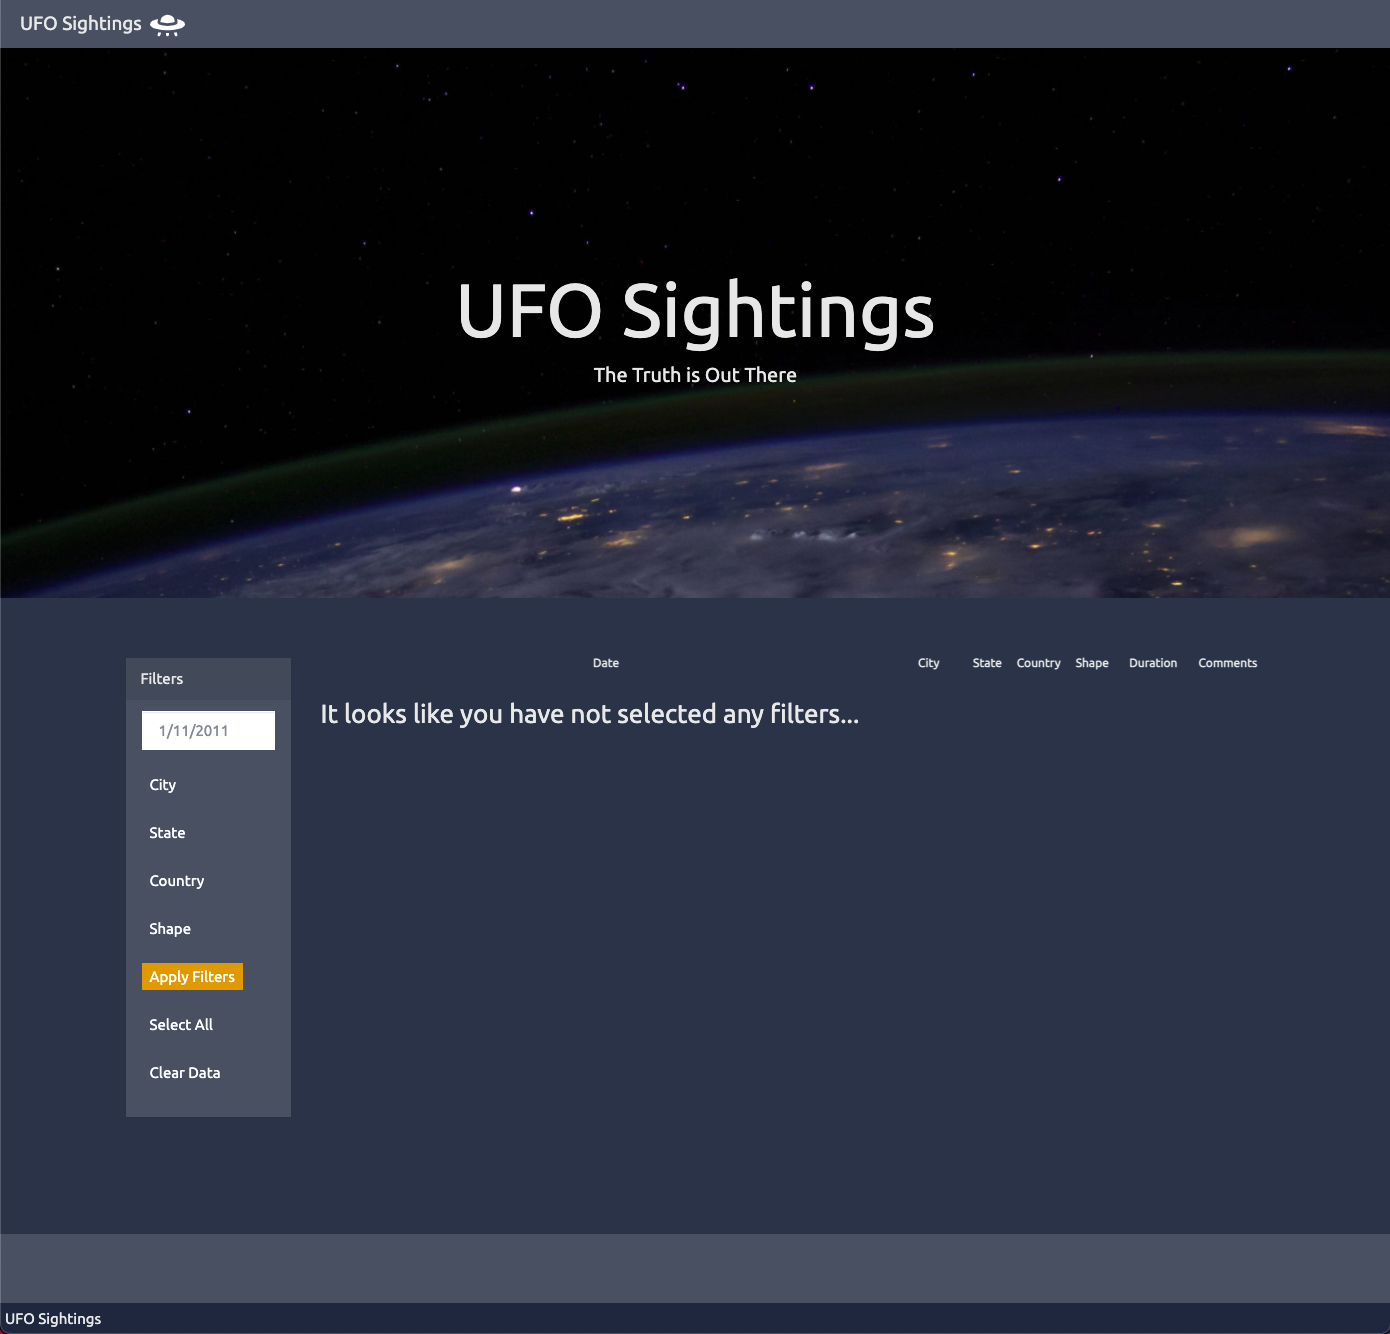
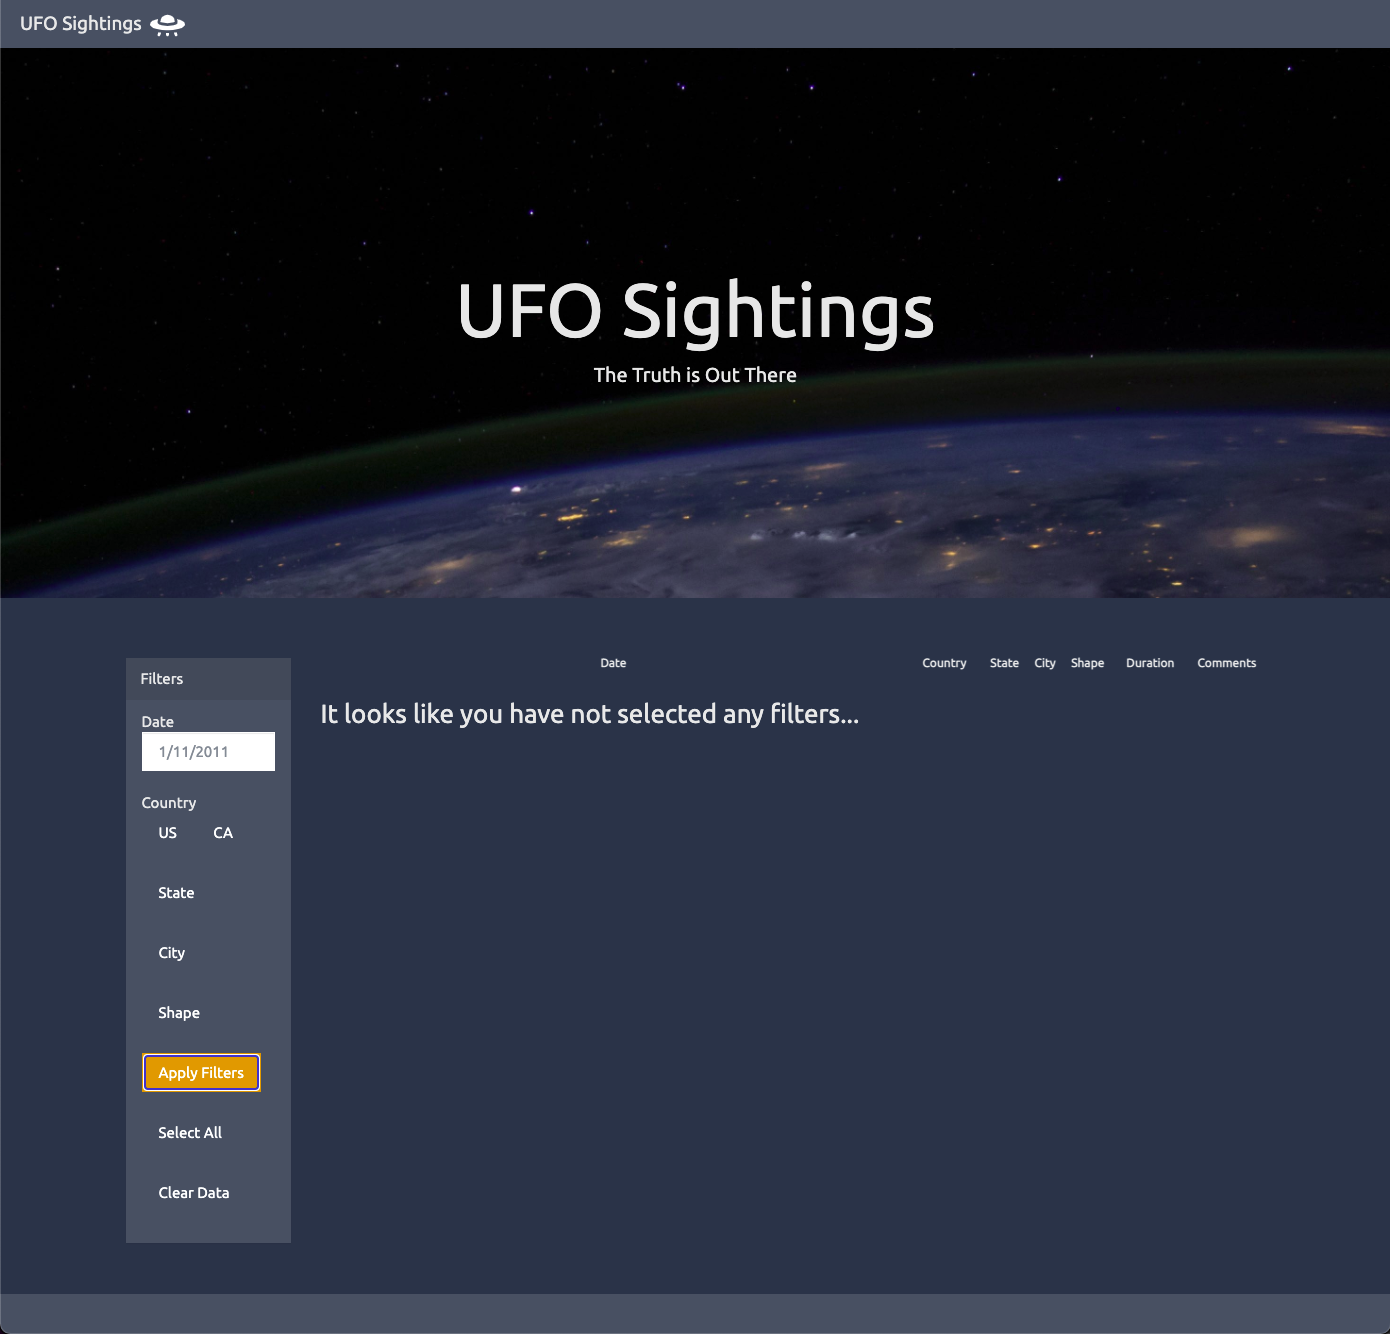
Adding a new button and some formatting. Also updated images.

diff --git a/UFO-level-1/static/js/app.js b/UFO-level-1/static/js/app.js
@@ -8,8 +8,10 @@ var allButton = d3.select("#all-btn");
 var clearButton = d3.select("#clear-btn");
 var cityDropdown = d3.select("#city-dropdown");
 var stateDropdown = d3.select("#state-dropdown");
-var countryDropdown = d3.select("#country-dropdown");
 var shapeDropdown = d3.select("#shape-dropdown");
+var usButton = d3.select("#us-btn");
+var caButton = d3.select("#ca-btn");
+var countrySelected = "";
 
 // Adding dropdown lists
 var cities = tableData.map(ufo => ufo.city);
@@ -24,12 +26,6 @@ uniqueStates.forEach(stateName => {
     stateDropdown.append("li").append("a").attr("id", "state-dropdown-item").text(stateName);
 });
 
-var countries = tableData.map(ufo => ufo.country);
-var uniqueCountries = countries.filter(uniqueFilter).sort();
-uniqueCountries.forEach(countryName => {
-    countryDropdown.append("li").append("a").attr("id", "country-dropdown-item").text(countryName);
-});
-
 var shapes = tableData.map(ufo => ufo.shape);
 var uniqueShapes = shapes.filter(uniqueFilter).sort();
 uniqueShapes.forEach(shapeName => {
@@ -39,7 +35,6 @@ uniqueShapes.forEach(shapeName => {
 // Selecting all
 var cityDropdownItem = d3.selectAll("#city-dropdown-item");
 var stateDropdownItem = d3.selectAll("#state-dropdown-item");
-var countryDropdownItem = d3.selectAll("#country-dropdown-item");
 var shapeDropdownItem = d3.selectAll("#shape-dropdown-item");
 
 // Event handlers
@@ -47,10 +42,11 @@ dateInput.on("submit", runFilter);
 filterButton.on("click", runFilter);
 allButton.on("click", runAll);
 clearButton.on("click", runClear);
-cityDropdownItem.on("click", runCities)
-stateDropdownItem.on("click", runStates)
-countryDropdownItem.on("click", runCountries)
-shapeDropdownItem.on("click", runShapes)
+cityDropdownItem.on("click", runCities);
+stateDropdownItem.on("click", runStates);
+shapeDropdownItem.on("click", runShapes);
+usButton.on("click", runCountries);
+caButton.on("click", runCountries);
 
 // Adding functions 
 function runFilter() {
@@ -58,7 +54,7 @@ function runFilter() {
     var textInput = d3.select("#datetime").property("value");
     var cityInput = d3.select("#city-button").text();
     var stateInput = d3.select("#state-button").text();
-    var countryInput = d3.select("#country-button").text();
+    var countryInput = countrySelected;
     var shapeInput = d3.select("#shape-button").text();
     var filterItems = {"datetime":textInput, "city":cityInput, "state":stateInput, "country":countryInput, "shape":shapeInput};
     var filteredResults = tableData;
@@ -68,21 +64,22 @@ function runFilter() {
         }
     })
     if ( filteredResults === tableData) {
-        filterButton.attr("class", "btn-warning");
+        filterButton.attr("class", "btn btn-warning");
         var ufoTbody = d3.select("#ufo-tbody");
         ufoTbody.html("");
         ufoTbody.append("h3").text(`It looks like you have not selected any filters...`);    
-        allButton.attr("class", "btn-default");
+        allButton.attr("class", "btn btn-default");
     } else if ( filteredResults.length !== 0 ) {
-        filterButton.attr("class", "btn-success");
+        filterButton.attr("class", "btn btn-success");
         dataPrinter(filteredResults);
+        allButton.attr("class", "btn btn-default");
     } else {
         runError();
     }
 };
 
 function runError() {
-    filterButton.attr("class", "btn-danger");
+    filterButton.attr("class", "btn btn-danger");
     var ufoTbody = d3.select("#ufo-tbody");
     ufoTbody.html("");
     ufoTbody.append("h3").text(`There is no data for the filters selected.`);    
@@ -91,8 +88,7 @@ function runError() {
 function runAll() {
     dataPrinter(tableData);
     clearFilters();
-    allButton.attr("class", "btn-info");
-
+    allButton.attr("class", "btn btn-info");
 };
 
 function runClear() {
@@ -104,29 +100,31 @@ function runClear() {
 function runCities() {
     var inputSelected = d3.select(this);
     var selectedCity = inputSelected.text();
-    d3.select("#city-button").text(selectedCity).style("text-transform", "capitalize").attr("class", "btn-info");
-    allButton.attr("class", "btn-default");
+    d3.select("#city-button").text(selectedCity).style("text-transform", "capitalize").attr("class", "btn btn-info");
+    allButton.attr("class", "btn btn-default");
 };
 
 function runStates() {
     var inputSelected = d3.select(this);
     var selectedState = inputSelected.text();
-    d3.select("#state-button").text(selectedState).style("text-transform", "capitalize").attr("class", "btn-info");
-    allButton.attr("class", "btn-default");
-};
-
-function runCountries() {
-    var inputSelected = d3.select(this);
-    var selectedCountry = inputSelected.text();
-    d3.select("#country-button").text(selectedCountry).style("text-transform", "capitalize").attr("class", "btn-info");
-    allButton.attr("class", "btn-default");
+    d3.select("#state-button").text(selectedState).style("text-transform", "capitalize").attr("class", "btn btn-info");
+    allButton.attr("class", "btn btn-default");
 };
 
 function runShapes() {
     var inputSelected = d3.select(this);
     var selectedShape = inputSelected.text();
-    d3.select("#shape-button").text(selectedShape).style("text-transform", "capitalize").attr("class", "btn-info");
-    allButton.attr("class", "btn-default");
+    d3.select("#shape-button").text(selectedShape).style("text-transform", "capitalize").attr("class", "btn btn-info");
+    allButton.attr("class", "btn btn-default");
+};
+
+function runCountries() {
+    usButton.attr("class", "btn btn-default");
+    caButton.attr("class", "btn btn-default");
+    var inputSelected = d3.select(this);
+    inputSelected.attr("class", "btn btn-info");
+    countrySelected = inputSelected.text().toLowerCase();
+    console.log(countrySelected);
 };
 
 function uniqueFilter(value, index, self) {
@@ -134,14 +132,16 @@ function uniqueFilter(value, index, self) {
 };
 
 function clearFilters() {
-    d3.select("#city-button").text("City").attr("class", "btn-default");
-    d3.select("#state-button").text("State").attr("class", "btn-default");
-    d3.select("#country-button").text("Country").attr("class", "btn-default");
-    d3.select("#shape-button").text("Shape").attr("class", "btn-default");
-    allButton.attr("class", "btn-default");
-    filterButton.attr("class", "btn-default");
-    clearButton.attr("class", "btn-default");
+    d3.select("#city-button").text("City").attr("class", "btn btn-default");
+    d3.select("#state-button").text("State").attr("class", "btn btn-default");
+    d3.select("#shape-button").text("Shape").attr("class", "btn btn-default");
+    allButton.attr("class", "btn btn-default");
+    filterButton.attr("class", "btn btn-default");
+    clearButton.attr("class", "btn btn-default");
     d3.select('#datetime').property("value", "");
+    usButton.attr("class", "btn btn-default");
+    caButton.attr("class", "btn btn-default");
+    countrySelected = "";
 };
 
 function dataPrinter(list) {
@@ -150,13 +150,21 @@ function dataPrinter(list) {
     list.forEach(ufo => {
         var row = ufoTbody.append("tr");
         row.append("td").text(ufo.datetime);
-        row.append("td").text(ufo.city);
-        row.append("td").text(ufo.state);
-        row.append("td").text(ufo.country);
-        row.append("td").text(ufo.shape);
+        row.append("td").text(ufo.country.toUpperCase());
+        row.append("td").text(ufo.state.toUpperCase());
+        row.append("td").text(firstCap(ufo.city));
+        row.append("td").text(firstCap(ufo.shape));
         row.append("td").text(ufo.durationMinutes);
         row.append("td").text(ufo.comments);
     })    
+};
+
+function firstCap(text) {
+    textSplit = text.split(" "); 
+    for(var i=0; i<textSplit.length; i++) {
+        textSplit[i] = textSplit[i].charAt(0).toUpperCase() + textSplit[i].slice(1);
+    }
+    return textSplit.join(" ");
 };
 
 clearFilters();

diff --git a/UFO-level-1/index.html b/UFO-level-1/index.html
@@ -38,12 +38,14 @@
                   <div class="form-group">
                     <ul class="list-group" id="filters">
                       <li class="filter list-group-item">
-                        <input class="form-control" id="datetime" type="text" placeholder="1/11/2011">
+                        Date <input class="form-control" id="datetime" type="text" placeholder="1/11/2011">
                       </li>
-                      <li class="dropdown list-group-item">
-                        <button id="city-button" class="btn btn-default dropdown-toggle" type="button" data-toggle="dropdown">City
-                        </button>
-                        <ul id="city-dropdown" class="dropdown-menu"></ul>
+                      <li id="country-li" class="list-group-item btn-group" role="group" aria-label="...">
+                        Country
+                        <div>
+                          <button id="us-btn" type="button" class="btn btn-default">US</button>
+                          <button id="ca-btn" type="button" class="btn btn-default">CA</button>
+                        </div>
                       </li>
                       <li class="dropdown list-group-item">
                         <button id="state-button" class="btn btn-default dropdown-toggle" type="button" data-toggle="dropdown">State
@@ -51,9 +53,9 @@
                         <ul id="state-dropdown" class="dropdown-menu"></ul>
                       </li>
                       <li class="dropdown list-group-item">
-                        <button id="country-button" class="btn btn-default dropdown-toggle" type="button" data-toggle="dropdown">Country
+                        <button id="city-button" class="btn btn-default dropdown-toggle" type="button" data-toggle="dropdown">City
                         </button>
-                        <ul id="country-dropdown" class="dropdown-menu"></ul>
+                        <ul id="city-dropdown" class="dropdown-menu"></ul>
                       </li>
                       <li class="dropdown list-group-item">
                         <button id="shape-button" class="btn btn-default dropdown-toggle" type="button" data-toggle="dropdown">Shape
@@ -82,16 +84,15 @@
               <thead>
                 <tr>
                   <th class="table-head">Date</th>
-                  <th class="table-head">City</th>
-                  <th class="table-head">State</th>
                   <th class="table-head">Country</th>
+                  <th class="table-head">State</th>
+                  <th class="table-head">City</th>
                   <th class="table-head">Shape</th>
                   <th class="table-head">Duration</th>
                   <th class="table-head">Comments</th>
                 </tr>
               </thead>
               <tbody id="ufo-tbody">
-                <!-- This is where I need to append -->
               </tbody>
             </table>
           </div>
